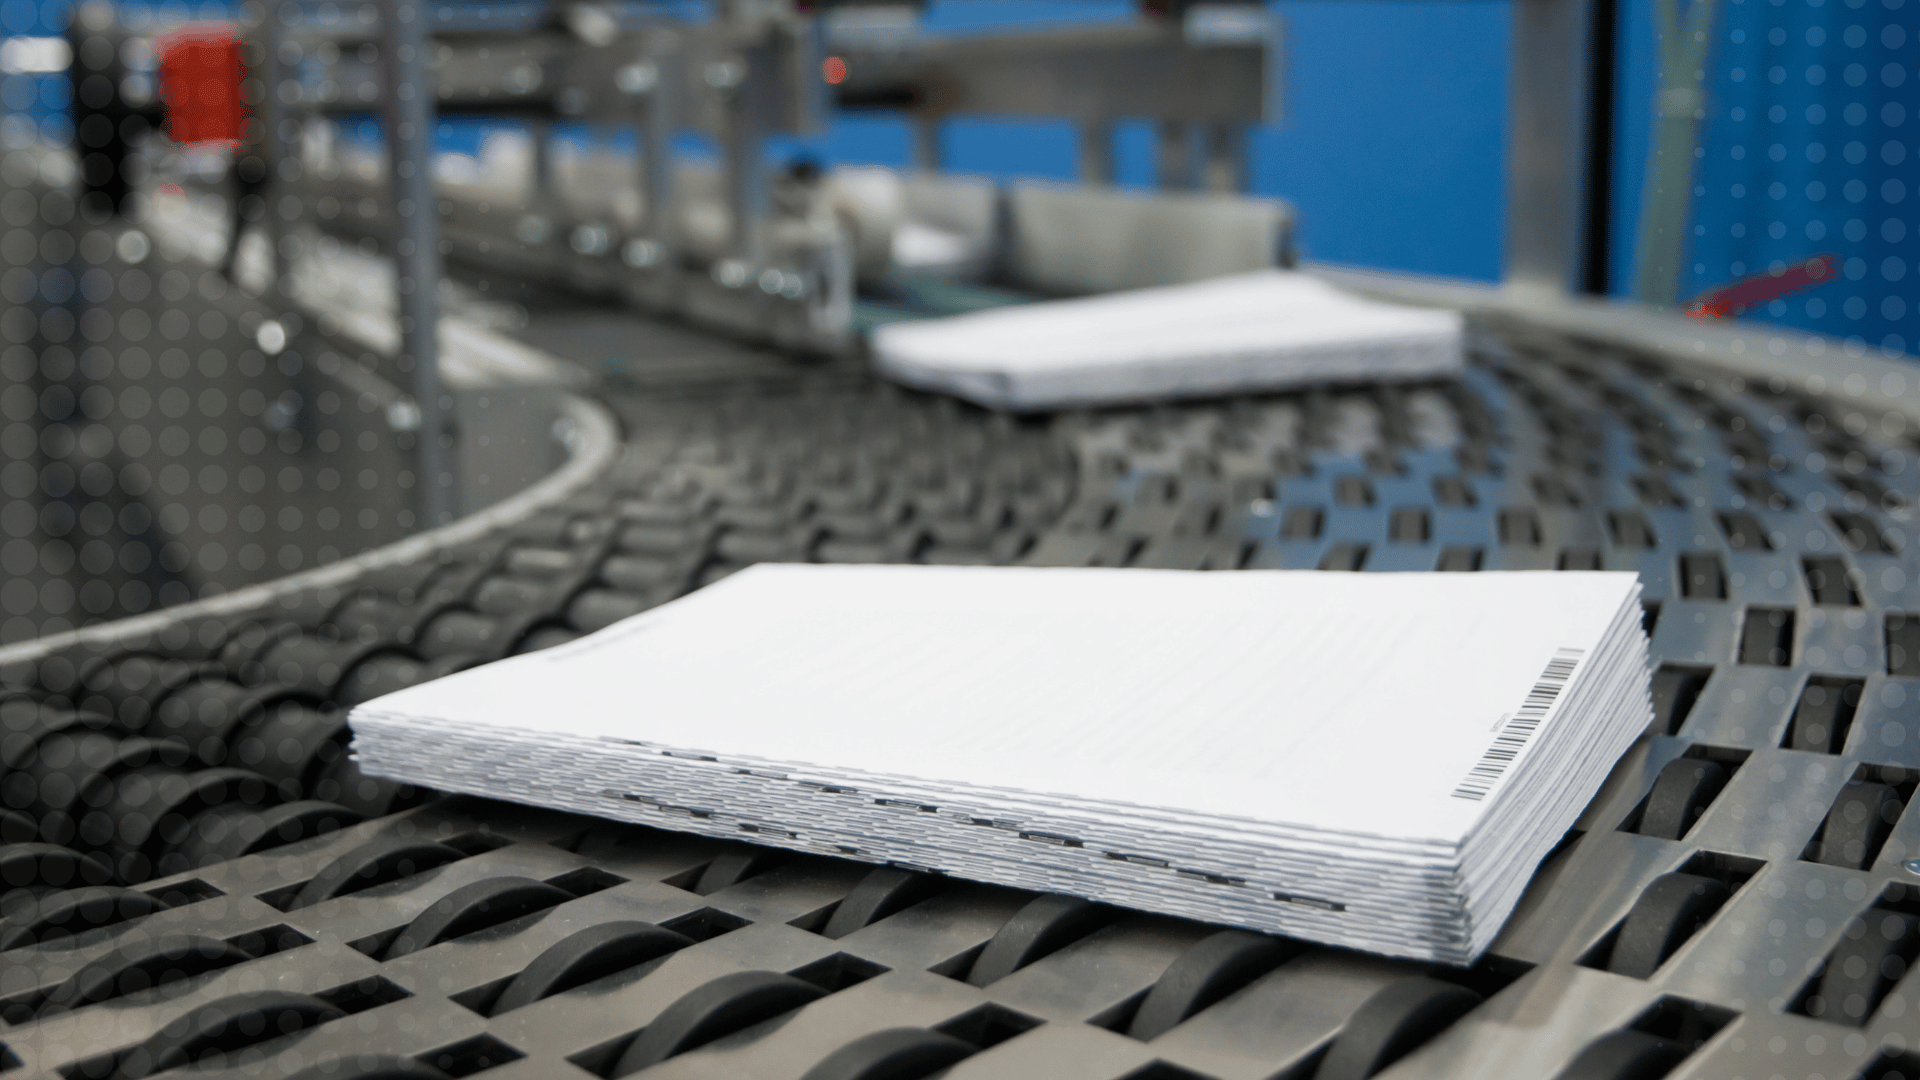
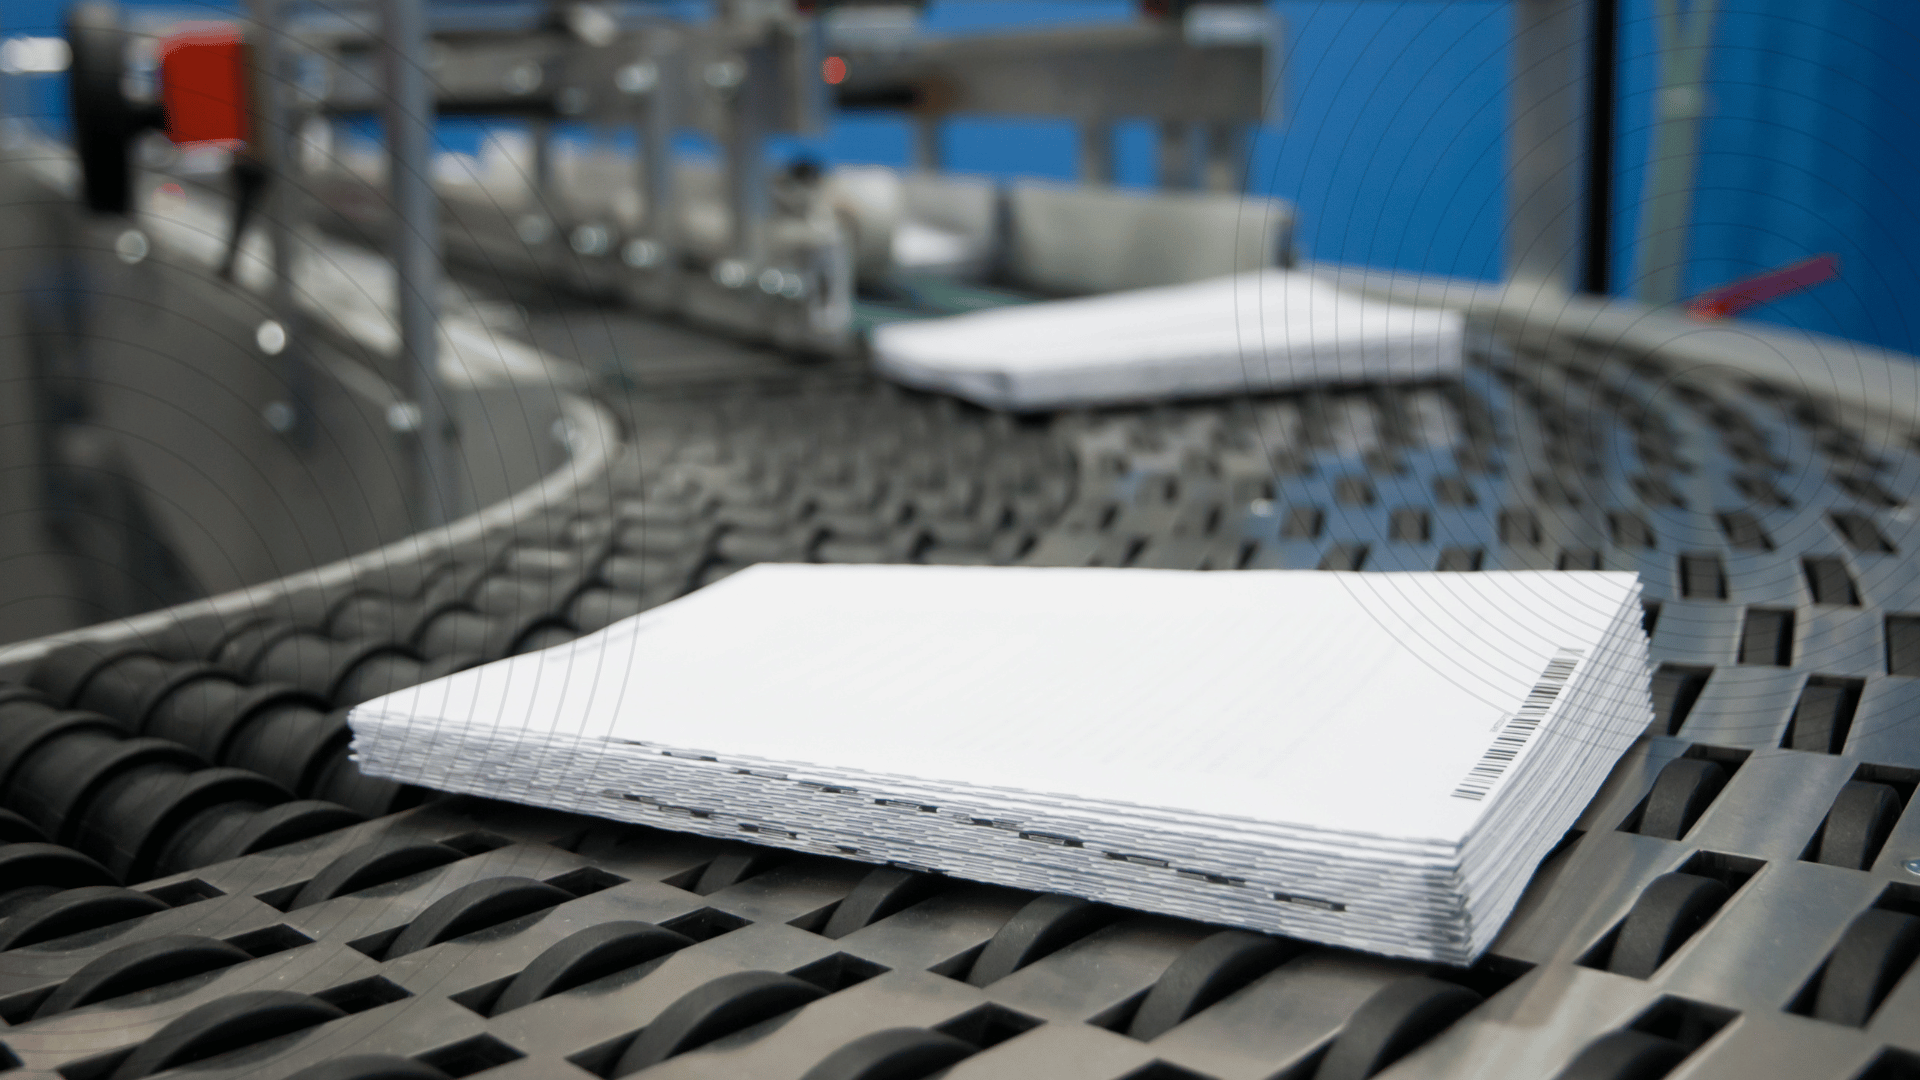
Changed hero image-weekly updates

diff --git a/style.css b/style.css
@@ -6,9 +6,9 @@ body {
 /********************** HEADER-HOME************************/
 .home {
   height: 100vh;
-  background: linear-gradient(rgba(0, 0, 0, 0.6), rgba(0, 0, 0, 0.6)),
+  background: linear-gradient(rgba(0, 0, 0, 0.3), rgba(0, 0, 0, 0.3)),
     url(images/header-img.jpeg) no-repeat center center / cover;
-  background-position: 30% 70%;
+  background-position: 50% 100%;
 }
 /* navbar */
 .nav-menu {
